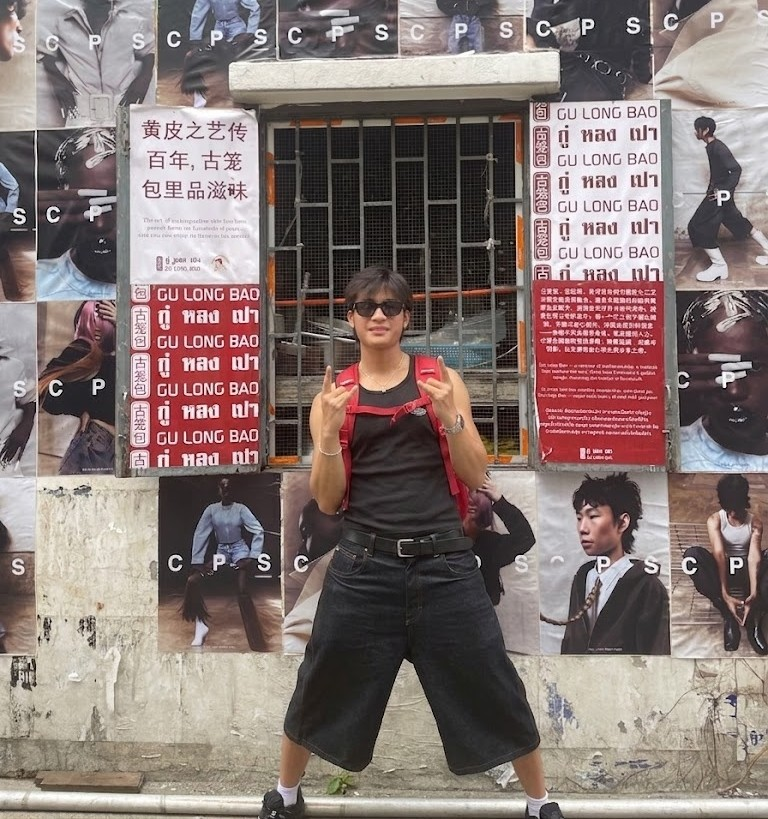
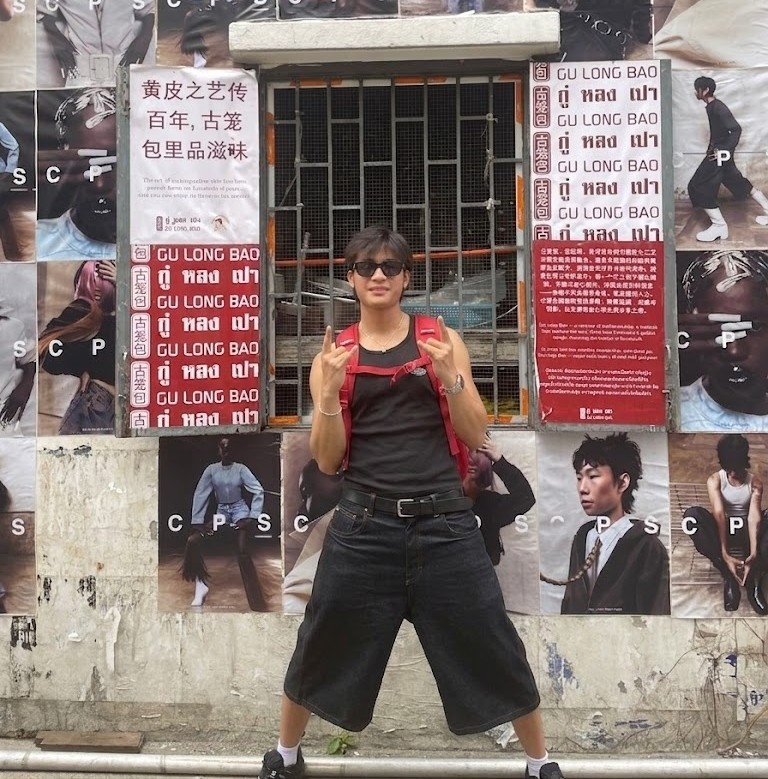
Crop About portrait to just above the window

diff --git a/styles.css b/styles.css
@@ -173,7 +173,7 @@ body {
   position: relative;
   width: min(260px, 17vw);
   /* Photo is already cropped to shape, so it shows whole */
-  aspect-ratio: 768 / 819;
+  aspect-ratio: 768 / 779;
 }
 
 .about-photo img {
